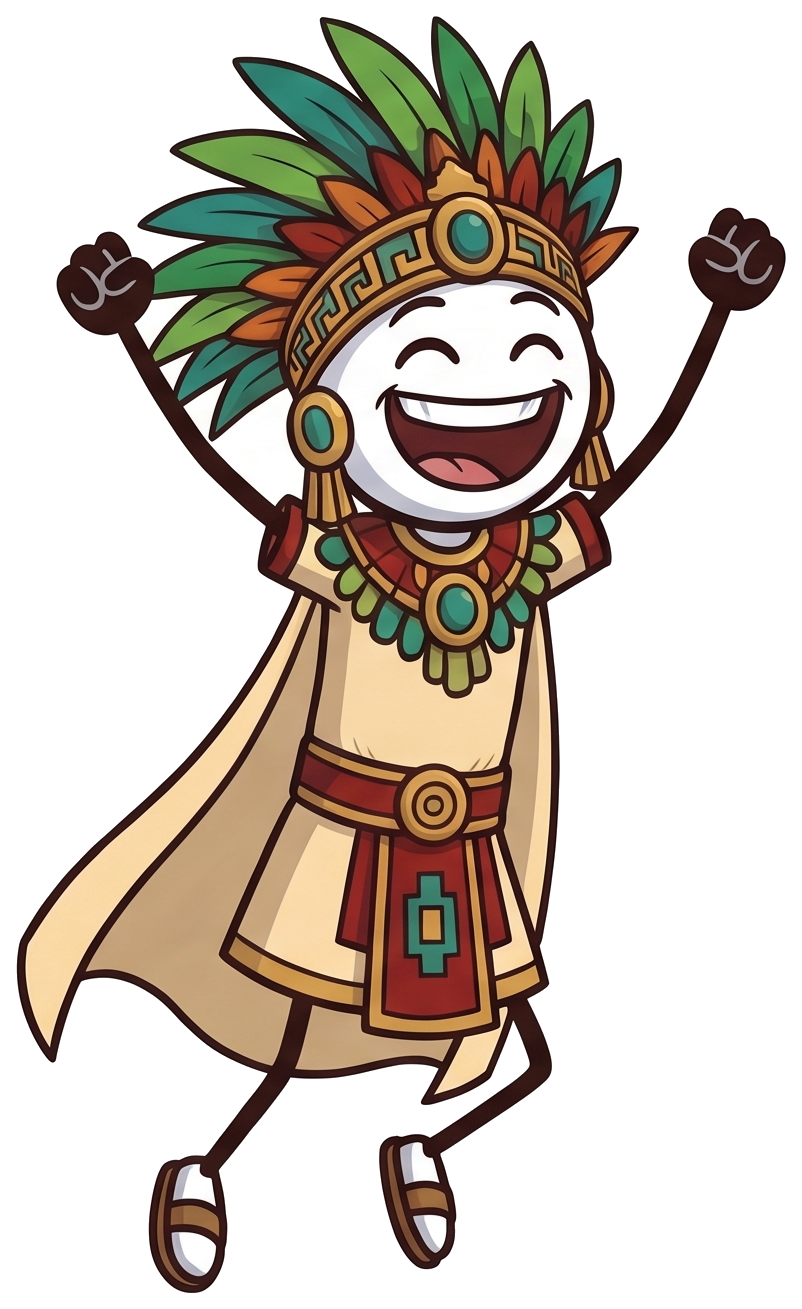
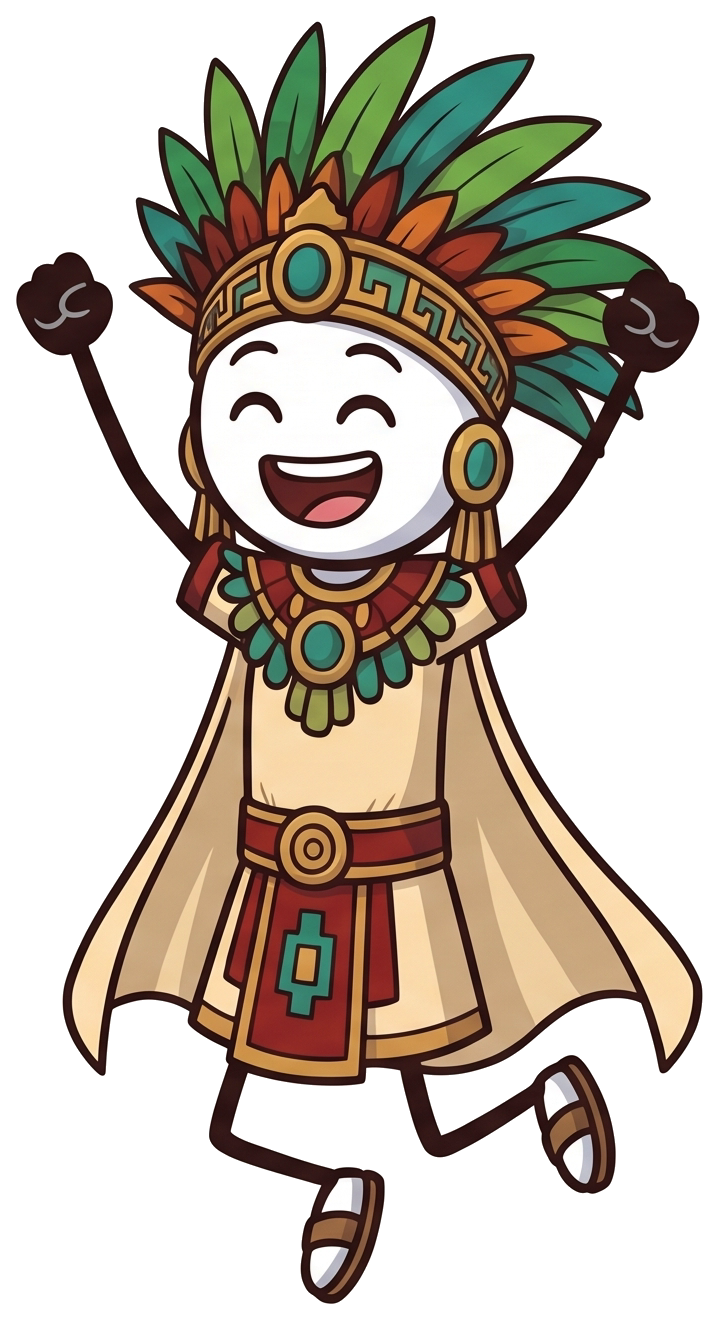
AZTIKA: 15 new image poses (13 full body, 2 upper body) generated from the owner's reference

diff --git a/src/kit/host-images.ts b/src/kit/host-images.ts
@@ -2,41 +2,65 @@
 // Poses named full-* are FULL BODY (feet at the bottom edge); all others are waist-up (cut at the waist).
 export const HOST_IMAGES = {
  "aztika": {
-  "full-cheer": [
-   639,
-   1420
+  "explain": [
+   718,
+   1115
   ],
-  "full-crying": [
-   486,
-   1271
+  "full-angry": [
+   771,
+   1474
   ],
   "full-jump-joy": [
-   802,
-   1309
+   719,
+   1320
   ],
-  "full-laugh-wave": [
-   615,
-   1433
+  "full-present": [
+   671,
+   1382
   ],
-  "full-scratch-head": [
-   672,
+  "full-sad": [
+   647,
    1491
   ],
-  "full-shocked-crouch": [
-   505,
-   1008
+  "full-scared": [
+   840,
+   1456
   ],
-  "full-smug": [
-   599,
-   1491
+  "full-shrug": [
+   747,
+   1395
+  ],
+  "full-skeptical": [
+   633,
+   1451
   ],
   "full-surprised": [
-   622,
-   1436
+   778,
+   1398
   ],
-  "full-worried": [
-   572,
-   1436
+  "full-thinking": [
+   576,
+   1391
+  ],
+  "full-thumbsup-wink": [
+   694,
+   1456
+  ],
+  "full-walk-2": [
+   721,
+   1449
+  ],
+  "full-walk": [
+   652,
+   1445
+  ],
+  "full-welcome": [
+   774,
+   1380
+  ],
+  "idea": [
+   679,
+   1126
   ]
  },
  "oddestory": {

diff --git a/library/hosts/aztika/README.md b/library/hosts/aztika/README.md
@@ -1,3 +1,3 @@
 # AZTIKA — Arabic channel host (pose images)
-Made with Nano Banana Pro (owner, 2026-10-21). All FULL BODY. Cut with tools/cutout.mjs --split (poses touched).
-Missing (regenerate with more space between poses): smug-point, angry-point, yawn, wink-point, think, angry.
+Generated with Flow / Nano Banana 2.1 from reference.jpg (owner, 2026-10-21). full-* = full body, others waist-up.
+Still to make: pointing left/right (full + upper), shocked, laughing, thinking, confused, worried, angry, smug, wink-point, sad, amazed, waving (upper body).
